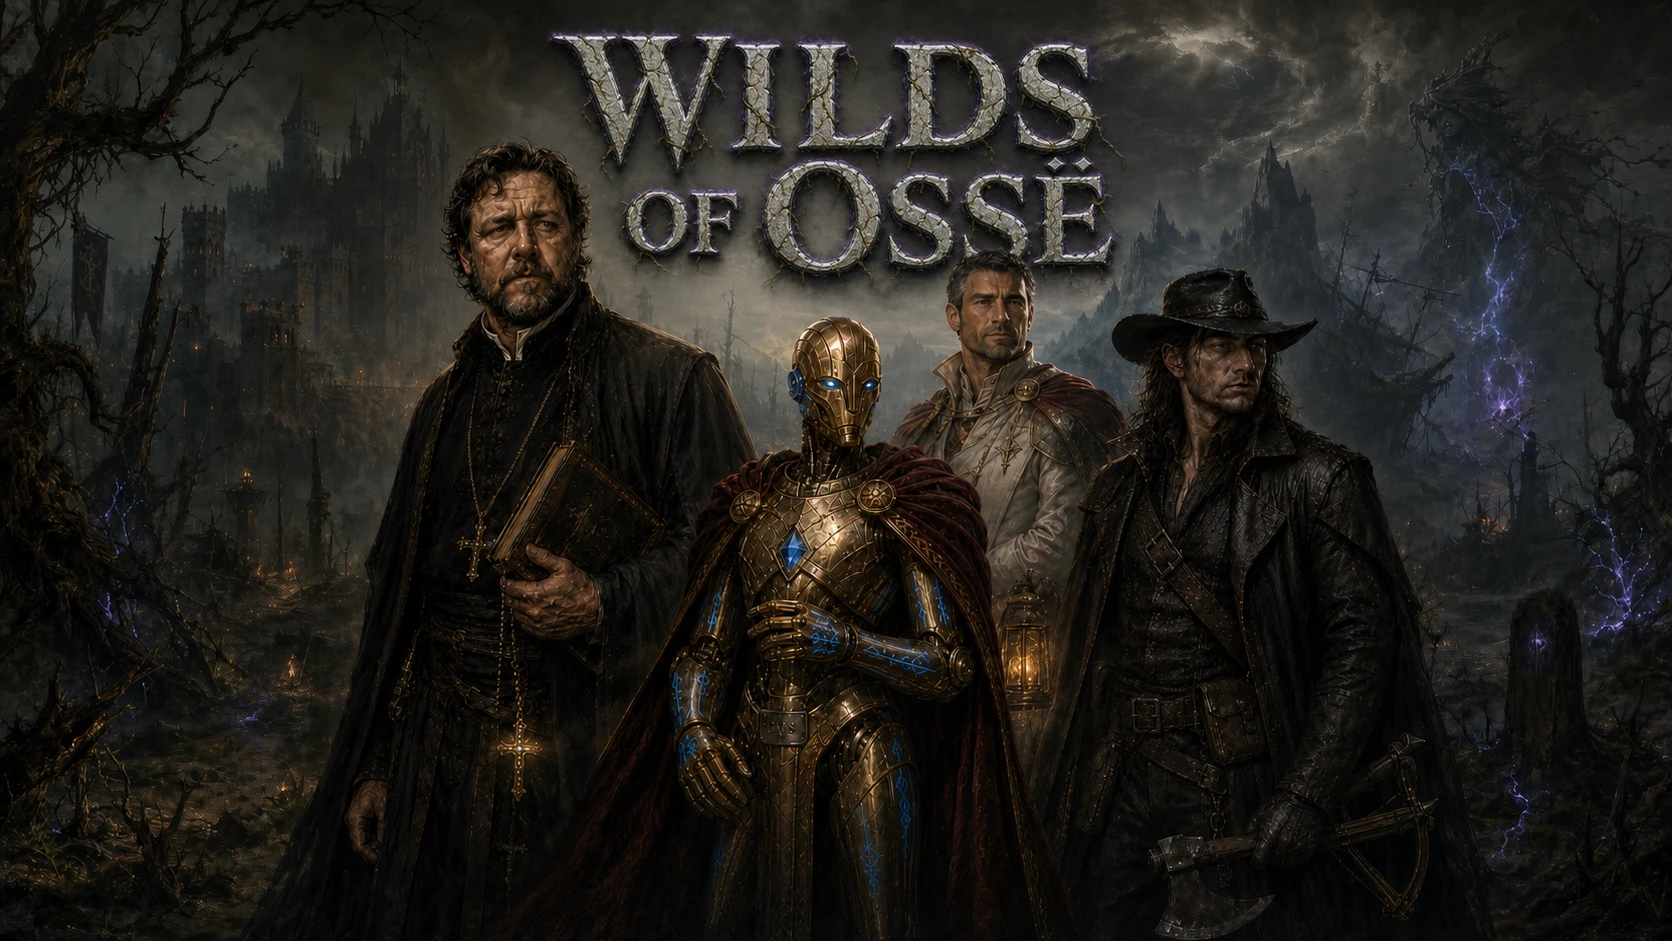
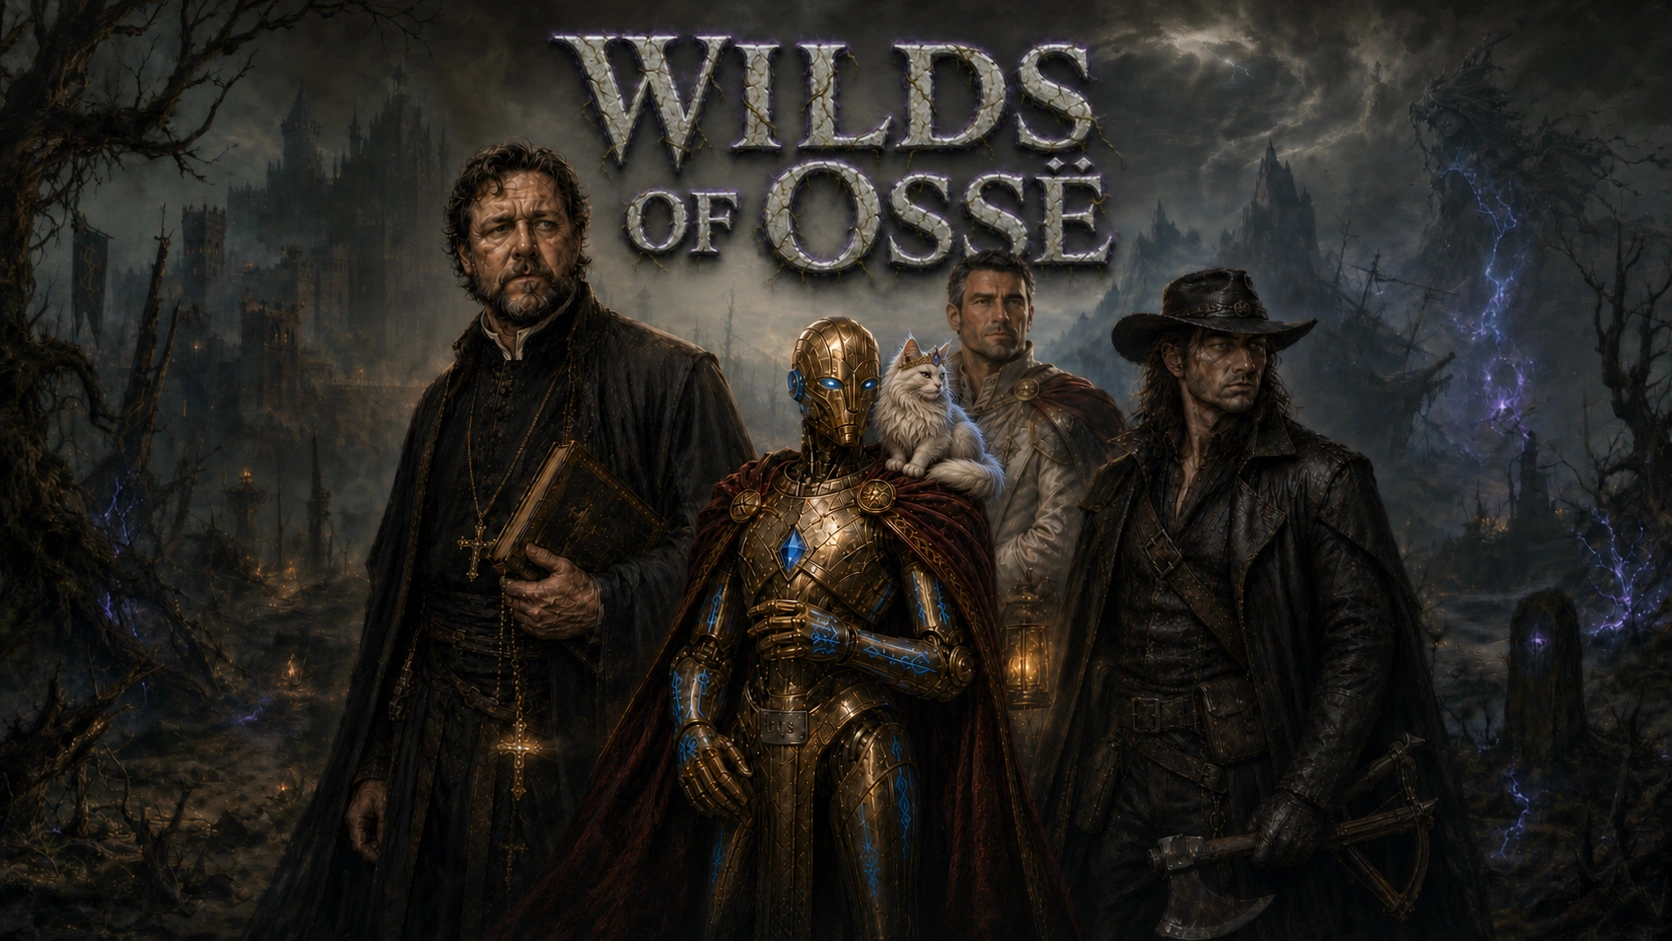
Campaign table: new cover, full width behind the page in the Cover poster theme

diff --git a/index.html b/index.html
@@ -5,7 +5,7 @@
 <meta name="viewport" content="width=device-width,initial-scale=1,viewport-fit=cover">
 <title>Wilds of Ossë · Table Links</title>
 <meta name="robots" content="noindex">
-<script>try{var th=localStorage.getItem("osse-theme");if(th)document.documentElement.dataset.theme=th}catch(e){}</script>
+<script>try{var th=localStorage.getItem("osse-theme");if(th)document.documentElement.dataset.theme=th;if(th==="poster"){var l=document.createElement("link");l.rel="preload";l.as="image";l.href="assets/poster.webp";document.head.appendChild(l)}}catch(e){}</script>
 <link rel="preconnect" href="https://fonts.googleapis.com">
 <link rel="preconnect" href="https://fonts.gstatic.com" crossorigin>
 <link rel="stylesheet" href="https://fonts.googleapis.com/css2?family=Cinzel:wght@500;600&family=Spectral:ital,wght@0,400;0,600;1,400&family=IBM+Plex+Mono:wght@400;500&display=swap">
@@ -110,26 +110,45 @@ footer{margin-top:48px;display:flex;flex-direction:column;align-items:center;gap
 .themes button:hover{color:var(--gold-hi);border-color:var(--gold-lo)}
 .themes button[aria-pressed=true]{color:var(--gold-hi);border-color:var(--gold)}
 .themes button:focus-visible{outline:2px solid var(--arcane);outline-offset:2px}
-.poster{display:none}
+.cover,.poster{display:none}
 
-/* Cover poster theme: the campaign's poster leads; stone silver, the construct's bronze, violet lightning. */
+/* Cover poster theme: the cover fills the screen's width and the page rises out of its lower third. The art is pinned behind the
+   page, drifts up at a third of the scroll and sinks into the dark (--sunk, 0 to 1, set by sink() below). Stone silver, Gus's bronze, violet lightning. */
 [data-theme=poster]{
-  --ink:#09090c; --panel:rgba(13,13,17,.86); --panel-2:rgba(27,27,33,.82); --line:rgba(198,200,218,.17);
+  --ink:#08080a; --panel:rgba(9,9,12,.7); --panel-2:rgba(20,19,24,.48); --line:rgba(198,200,218,.17);
   --gold:#c99a5b; --gold-hi:#ebe8e1; --gold-lo:#6f6b7d; --velvet:#33246e; --velvet-hi:#6b50d6;
-  --text:#e7e4de; --muted:#a19fa9; --arcane:#a58bff; --bad:#ff9fb0;
+  --text:#e9e6e0; --muted:#b0aeb8; --arcane:#a58bff; --bad:#ff9fb0;
+  --art-h:min(max(56.28vw,min(96vw,620px)),100vh); --rise:max(calc(var(--art-h)*.645),min(30.4vw,78vh)); --sunk:0;
+  background:var(--ink);
 }
-[data-theme=poster] body{background:var(--ink)}
-[data-theme=poster] body::before{content:"";position:fixed;inset:-60px;z-index:-1;background:url(assets/poster.webp) center 30%/cover no-repeat;filter:blur(26px) saturate(.8) brightness(.32)}
-[data-theme=poster] body::after{content:"";position:fixed;inset:0;z-index:-1;background:radial-gradient(ellipse 90% 60% at 50% 0%,transparent,rgba(9,9,12,.75) 70%),linear-gradient(180deg,transparent 40%,rgba(9,9,12,.7))}
-[data-theme=poster] .wrap{max-width:960px}
-[data-theme=poster] header{margin-bottom:clamp(20px,4vw,34px)}
-[data-theme=poster] .poster{display:block;width:100%;height:auto;aspect-ratio:1672/941;object-fit:cover;border-radius:8px;margin:0 0 18px;
-  box-shadow:0 0 0 1px rgba(198,200,218,.16),0 24px 60px rgba(0,0,0,.7),0 0 70px rgba(107,80,214,.18)}
-[data-theme=poster] header h1{position:absolute;width:1px;height:1px;overflow:hidden;clip:rect(0 0 0 0)}
-[data-theme=poster] .rule{color:var(--arcane)}
-[data-theme=poster] .rule::before,[data-theme=poster] .rule::after{background:linear-gradient(90deg,transparent,var(--velvet-hi),transparent)}
-[data-theme=poster] h2{color:var(--gold-hi);text-shadow:0 0 18px rgba(165,139,255,.35);border-bottom-color:rgba(165,139,255,.28)}
-[data-theme=poster] .card,[data-theme=poster] .tile,[data-theme=poster] .check{-webkit-backdrop-filter:blur(8px);backdrop-filter:blur(8px)}
+@supports (height:100svh){[data-theme=poster]{--art-h:min(max(56.28vw,min(96vw,620px)),100svh)}}
+[data-theme=poster] body{position:relative;background:none;padding-top:0}
+[data-theme=poster] .cover{display:block;position:fixed;z-index:-1;top:0;left:0;right:0;height:var(--art-h);overflow:hidden;pointer-events:none;
+  opacity:calc(1 - var(--sunk)*.94);transform:translate3d(0,calc(var(--sunk)*var(--rise)*-.34),0);
+  -webkit-mask-image:linear-gradient(180deg,#000 calc(var(--rise)*.72),rgba(0,0,0,.86) calc(var(--rise)*.88),rgba(0,0,0,.58) calc(var(--rise)*1.05),rgba(0,0,0,.28) 84%,rgba(0,0,0,.09) 93%,transparent);
+  mask-image:linear-gradient(180deg,#000 calc(var(--rise)*.72),rgba(0,0,0,.86) calc(var(--rise)*.88),rgba(0,0,0,.58) calc(var(--rise)*1.05),rgba(0,0,0,.28) 84%,rgba(0,0,0,.09) 93%,transparent)}
+/* The painting at its own proportions, as wide as it needs to be, so the light below stays on its spot at any size. */
+[data-theme=poster] .art{position:absolute;top:0;left:50%;width:max(100%,calc(var(--art-h)*1.7768));aspect-ratio:1672/941;transform:translateX(-50%)}
+[data-theme=poster] .poster{display:block;width:100%;height:100%}
+[data-theme=poster] .storm{position:absolute;left:80%;top:6%;width:20%;height:64%;mix-blend-mode:screen;opacity:0;
+  background:radial-gradient(ellipse 34% 48% at 50% 45%,rgba(150,120,255,.5),rgba(107,80,214,.2) 50%,transparent 75%);animation:storm 13s linear infinite}
+@keyframes storm{0%,61%{opacity:0}62%{opacity:.55}63.2%{opacity:.1}64.2%{opacity:.4}68%,100%{opacity:0}}
+/* The fog the page stands in: the painting's dark ground, its ember light on the left and its lightning on the right, carried down the page. */
+[data-theme=poster] body::before{content:"";position:fixed;inset:0;z-index:-2;background:
+  radial-gradient(ellipse 46% 60% at 0% 82%,rgba(150,92,40,.13),transparent 70%),radial-gradient(ellipse 46% 64% at 100% 74%,rgba(107,80,214,.16),transparent 70%),
+  linear-gradient(180deg,#0f0f12,var(--ink) 70%)}
+[data-theme=poster] .wrap{max-width:1120px}
+[data-theme=poster] header{height:var(--rise);margin:0}
+[data-theme=poster] header>*{position:absolute;width:1px;height:1px;overflow:hidden;clip:rect(0 0 0 0)}
+[data-theme=poster] header+section{margin-top:0}
+[data-theme=poster] .cards{grid-template-columns:repeat(auto-fit,minmax(min(100%,300px),1fr))}
+[data-theme=poster] h2{color:var(--gold-hi);text-shadow:0 1px 3px #000,0 0 18px rgba(8,8,10,.9),0 0 22px rgba(165,139,255,.3);border-bottom-color:transparent;
+  border-image:linear-gradient(90deg,rgba(201,154,91,.6),rgba(198,200,218,.2) 45%,rgba(165,139,255,.6)) 1}
+[data-theme=poster] h2 small{color:#c6c4cd;text-shadow:0 1px 3px #000,0 0 12px #000}
+[data-theme=poster] .card,[data-theme=poster] .tile,[data-theme=poster] .check{-webkit-backdrop-filter:blur(9px) saturate(1.25);backdrop-filter:blur(9px) saturate(1.25);
+  box-shadow:inset 0 1px 0 rgba(235,232,225,.09),0 14px 34px rgba(0,0,0,.45)}
+[data-theme=poster] .card p{color:#bfbdc6}
+[data-theme=poster] #player-cards .card>.row{margin-top:auto}
 [data-theme=poster] .btn{color:#170f06;background:linear-gradient(180deg,#ecca90,#c79150 55%,#7f5528);border-color:#ecca90;box-shadow:inset 0 1px 0 rgba(255,244,220,.55),0 0 0 1px rgba(0,0,0,.3)}
 [data-theme=poster] .btn.ghost{color:var(--gold-hi);background:rgba(255,255,255,.03);border-color:var(--gold-lo);box-shadow:none}
 [data-theme=poster] .btn.ghost:hover{border-color:var(--arcane)}
@@ -137,13 +156,17 @@ footer{margin-top:48px;display:flex;flex-direction:column;align-items:center;gap
 [data-theme=poster] .lock input,[data-theme=poster] .check input{background:rgba(0,0,0,.45)}
 [data-theme=poster] .check input:checked{background:var(--gold);border-color:#ecca90}
 [data-theme=poster] .code{background:rgba(0,0,0,.35)}
+@media (prefers-reduced-motion:reduce){[data-theme=poster] .storm{animation:none}[data-theme=poster] .cover{transform:none}}
 [hidden]{display:none!important}
 </style>
 </head>
 <body>
+<div class="cover"><div class="art">
+  <img class="poster" src="assets/poster.webp" width="1672" height="941" alt="The Wilds of Ossë cover: a priest, a brass construct with a crowned white cat on its shoulder, a man in a white coat and a bounty hunter before a ruined castle under violet lightning" loading="lazy">
+  <i class="storm" aria-hidden="true"></i>
+</div></div>
 <div class="wrap">
   <header>
-    <img class="poster" src="assets/poster.webp" width="1672" height="941" alt="The Wilds of Ossë cover poster: a priest, a brass construct, a man in a white coat and a bounty hunter before a ruined castle under violet lightning" loading="lazy" decoding="async">
     <span class="eyebrow">A campaign table</span>
     <h1>Wilds of Ossë</h1>
     <p class="sub">Everything you need at the table, in one place.</p>
@@ -371,6 +394,18 @@ function theme(name){
 }
 document.querySelectorAll("[data-theme-set]").forEach(b => b.addEventListener("click", () => store.set("osse-theme", theme(b.dataset.themeSet))));
 theme(store.get("osse-theme"));
+
+/* Cover poster: how far the cover has sunk into the dark, from 0 at the top to 1 once the page has risen over it. */
+let sinking = 0;
+function sink(){
+  sinking = 0;
+  const rise = document.querySelector("header").offsetHeight || 1;
+  document.querySelector(".cover").style.setProperty("--sunk", Math.min(1, Math.max(0, scrollY / rise)).toFixed(3));
+}
+const askSink = () => { sinking = sinking || requestAnimationFrame(sink); };
+addEventListener("scroll", askSink, {passive: true});
+addEventListener("resize", askSink);
+sink();
 
 playerCards();
 const saved = store.get("osse-hub-dm") || store.get("gus-key-gm");

diff --git a/screen/README.md b/screen/README.md
@@ -2,7 +2,7 @@
 
 The site's home page, `index.html`, gathers every link: https://osse.thomashuet.ca once its DNS record is in place, https://alcubierrewarp.github.io/wilds-of-osse-homebrew/ until then. Links open in the same tab; Command-click opens one in a new tab.
 
-- **Theme**: the footer switches between Original and Cover poster (the campaign poster, `assets/poster.webp`). Each browser remembers its choice.
+- **Theme**: the footer switches between Original and Cover poster (the campaign cover, `assets/poster.webp`, full width behind the page, which rises over its lower third and sinks it into the dark as it scrolls). Each browser remembers its choice.
 - **For the players**: D&D Beyond, Roll20, Discord, the chronicle, the codex (what the party knows, with a rules lookup) and Gus's archive. No codes here.
 - **Game master**: behind a passcode (Keychain service `osse-dm-passcode`; change it with `relay/gus/deploy.sh --new-dm-passcode`, or pipe a chosen one into `--set-dm-passcode`). It keeps players from wandering in; it is not strong security. One unlock opens the hub's section, every DM page (`assets/dm.js`) and Gus's archive in that browser; Lock this browser closes them all. Inside:
   - Gus's archive code, to hand to Shane. While the section is unlocked, the players' archive button opens the game master view. The code comes from the relay (`hub.json`, game master only), so it never sits in this repository. `relay/gus/deploy.sh --new-player-code` changes the code and the hub at once.
